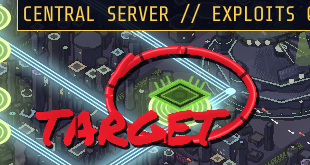
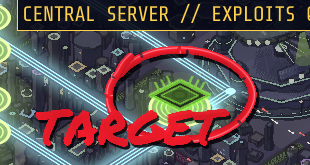
B1b fix c: dropouts are partial-width seeded nibbles spaced in screen px; the shadow fades over the gap (never dashed)

diff --git a/docs/DECISIONS.md b/docs/DECISIONS.md
@@ -125,6 +125,17 @@ at text 1.0 and 2.0). Test: `tests/unit/test_b1b_wax_pencil.gd`.
   shadow thins there too; words take fewer (period 90). Replaces the edge-only dropout that never showed. Tests:
   `test_b1b_wax_pencil::test_wax_dropouts_every_40_to_70_px_two_to_four_px_long_to_alpha_0_35`,
   `::test_the_shader_hash_is_the_scripts_hash`. Crops: `B1b_crop_aim.png`, `B1b_crop_target_only.png` (1:1, 1080p).
+- **Art-director fix c (2026-10-06): the dropouts read as a dashed line** (dark cross-ticks ~25-30 px apart; dashes
+  mean forecasts and locked links, so pencil must never look dashed). (a) The under-shadow fades to 0.35 over the whole
+  gap and `dropout_pad` (its own offset's length, ~3.6 px) past each end, so the street shows through, never the
+  shifted shadow as a dark tick. (b) A dropout is a nibble: a ragged bite of 40-70 % of the stroke's width
+  (`DROPOUT_BITE`) from one edge, the side and the depth from the seed (`dropout_bite` mirrors the shader), deepest
+  mid-stretch, never a full-width break; words bite across their cap height. (c) Spacing in screen px: the wax lines
+  draw with the texture STRETCHED and each line has its own material copy carrying its drawn span along the stroke
+  (`seg_from_px` / `seg_to_px`), so the shader's distance is the arc length, not the tiled UV (which ran at about twice
+  the arc length in widths, halving the spacing). Tests: `test_b1b_wax_pencil::test_a_dropout_is_a_partial_width_nibble_from_one_seeded_edge`,
+  `::test_the_shadow_fades_over_the_whole_gap_so_no_dark_tick_shows`, `::test_dropouts_are_spaced_in_screen_px_on_a_curved_zoomed_stroke`.
+  Crop resent: `B1b_crop_aim.png`.
 
 ### 2026-10-06 — Designer rulings on the art-direction integration review
 The art-pass session reviewed main @ 175377de (`docs/concepts/INTEGRATION_REVIEW/REVIEW.md` on art-pass, D1–D25 and
